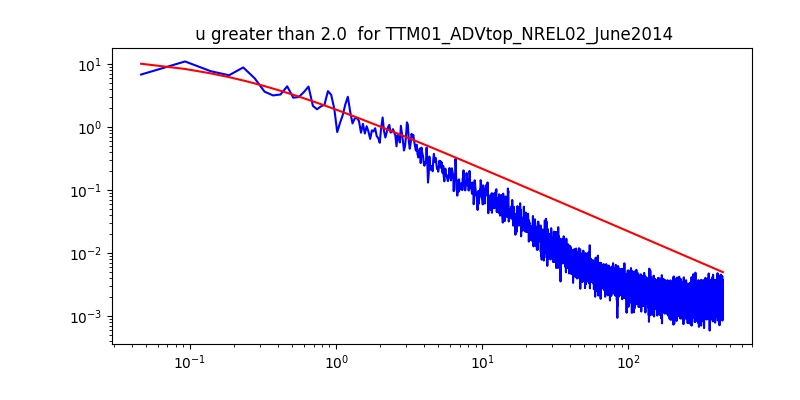
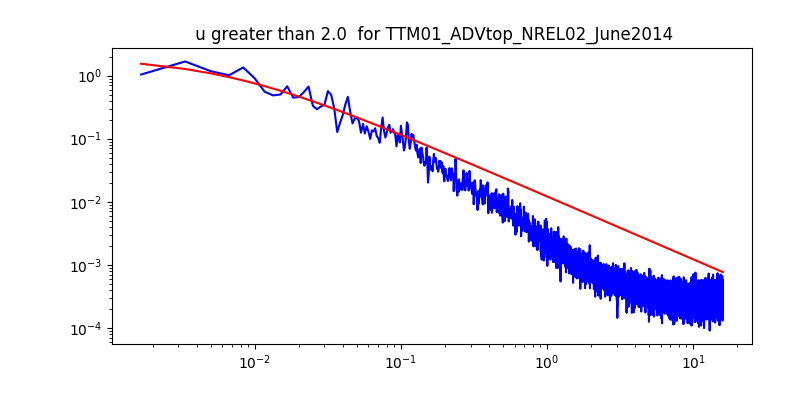
Working on fits

diff --git a/spectral_fit_u.py b/spectral_fit_u.py
@@ -35,27 +35,28 @@ def def_vars(dat_bin, uinds):
 def def_x_y(dat_bin, z, u_star, U_hor, uinds, freq_range):
     """Defines x and y and normalizes them"""
     # ifreq = np.zeros(dat_bin.freq.shape, dtype='bool')
-    ifreq = ((freq_range[0] < dat_bin.freq) & (dat_bin.freq < freq_range[1]))
-    x = dat_bin.omega
-    y = dat_bin.Spec[0, uinds].mean(0)
-    y = y[ifreq]
+    # ifreq = ((freq_range[0] < dat_bin.freq) & (dat_bin.freq < freq_range[1]))
+    x = dat_bin.freq
+    y = dat_bin.Spec[0, uinds].mean(0) * pii
+    # y = y[ifreq]
     x_norm = (x * z) / U_hor
     y_norm = (y * U_hor) / (z * u_star)
     return x_norm, y_norm, x, y
 
 
-def spectra_fit_plot(x_norm, y_norm, filename, words, popt):
+def spectra_fit_plot(x_norm, x, y, filename, words, popt, u_star, U_hor):
     """Plots the spectral fit over the data"""
     fig = plt.figure(1, figsize=[8, 4])
     fig.clf()
     ax = fig.add_axes([.14, .14, .8, .74])
 
     # plot our data
-    ax.loglog(x_norm, y_norm, 'b-')
+    ax.loglog(x, y, 'b-')
     ax.set_autoscale_on(False)  # Otherwise, infinite loop
 
-    y_theory = function(x_norm, popt[0], popt[1])
-    ax.loglog(x_norm, y_theory, 'r-')
+    y_theory_norm = function(x_norm, popt[0], popt[1])
+    y_theory = y_theory_norm * u_star * z / U_hor
+    ax.loglog(x, y_theory, 'r-')
     ax.set_title(words + " for " + filename)
     fig.savefig('./figures/spectral_fits/u/' + filename + '_fit_' + words + '.png')
 
@@ -84,7 +85,7 @@ for filename in FILENAMES:
     popts = []
     for indices, words in zip(UINDS, UINDS_words):
         uinds = indices
-        freq_range = [0, 30]
+        freq_range = [0, 4]
         u_star, U_hor = def_vars(dat_bin, uinds)
         x_norm, y_norm, x, y = def_x_y(dat_bin, z, u_star, U_hor, uinds, freq_range)
         popt, pcov = scipy.optimize.curve_fit(function, x_norm, y_norm)
@@ -92,7 +93,7 @@ for filename in FILENAMES:
         print popt
         popts.append(popt)
 
-        spectra_fit_plot(x_norm, y_norm, filename, words, popt)
+        spectra_fit_plot(x_norm, x, y, filename, words, popt, u_star, U_hor)
 
     df['u'] = popts
     df.to_csv(fname)
